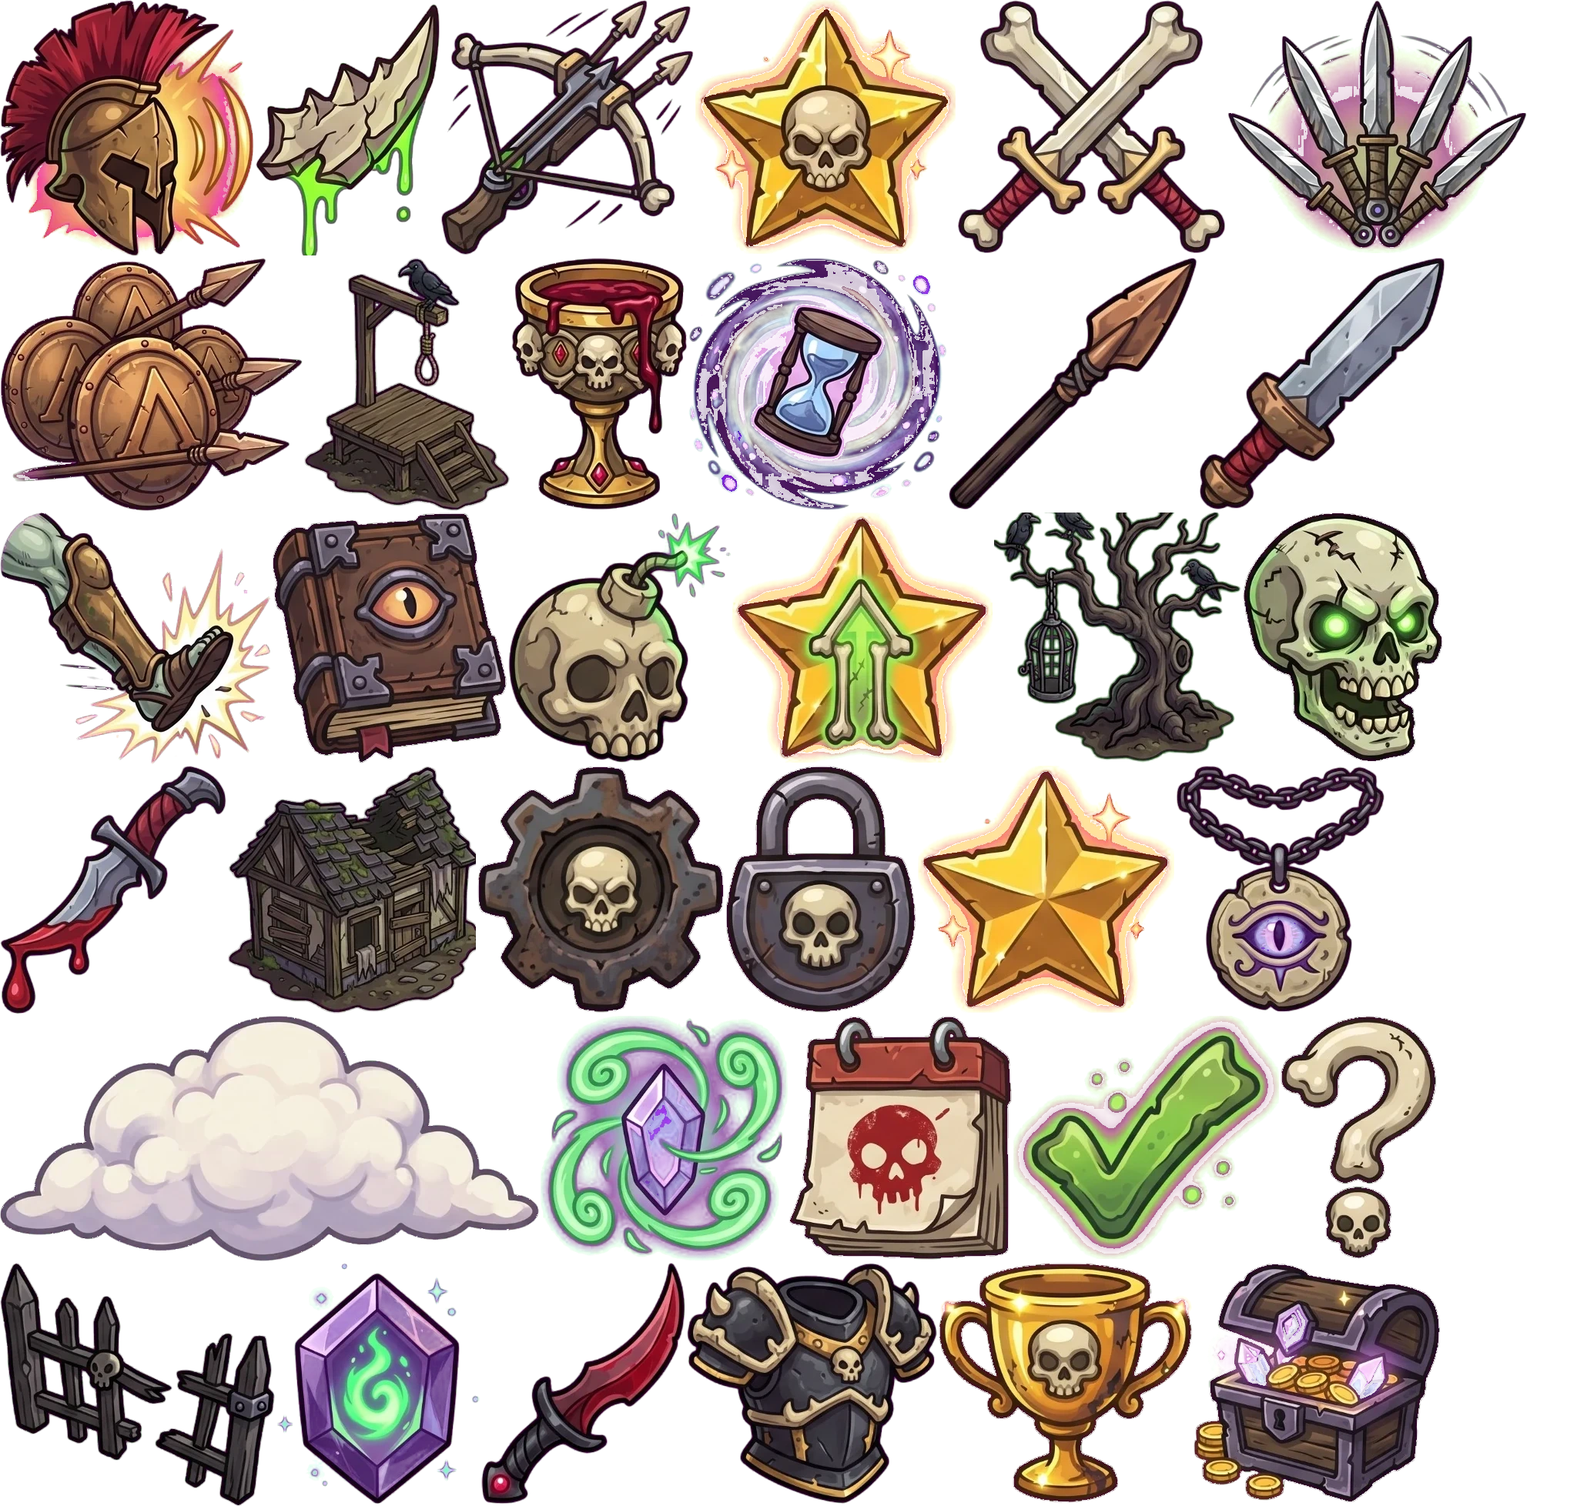
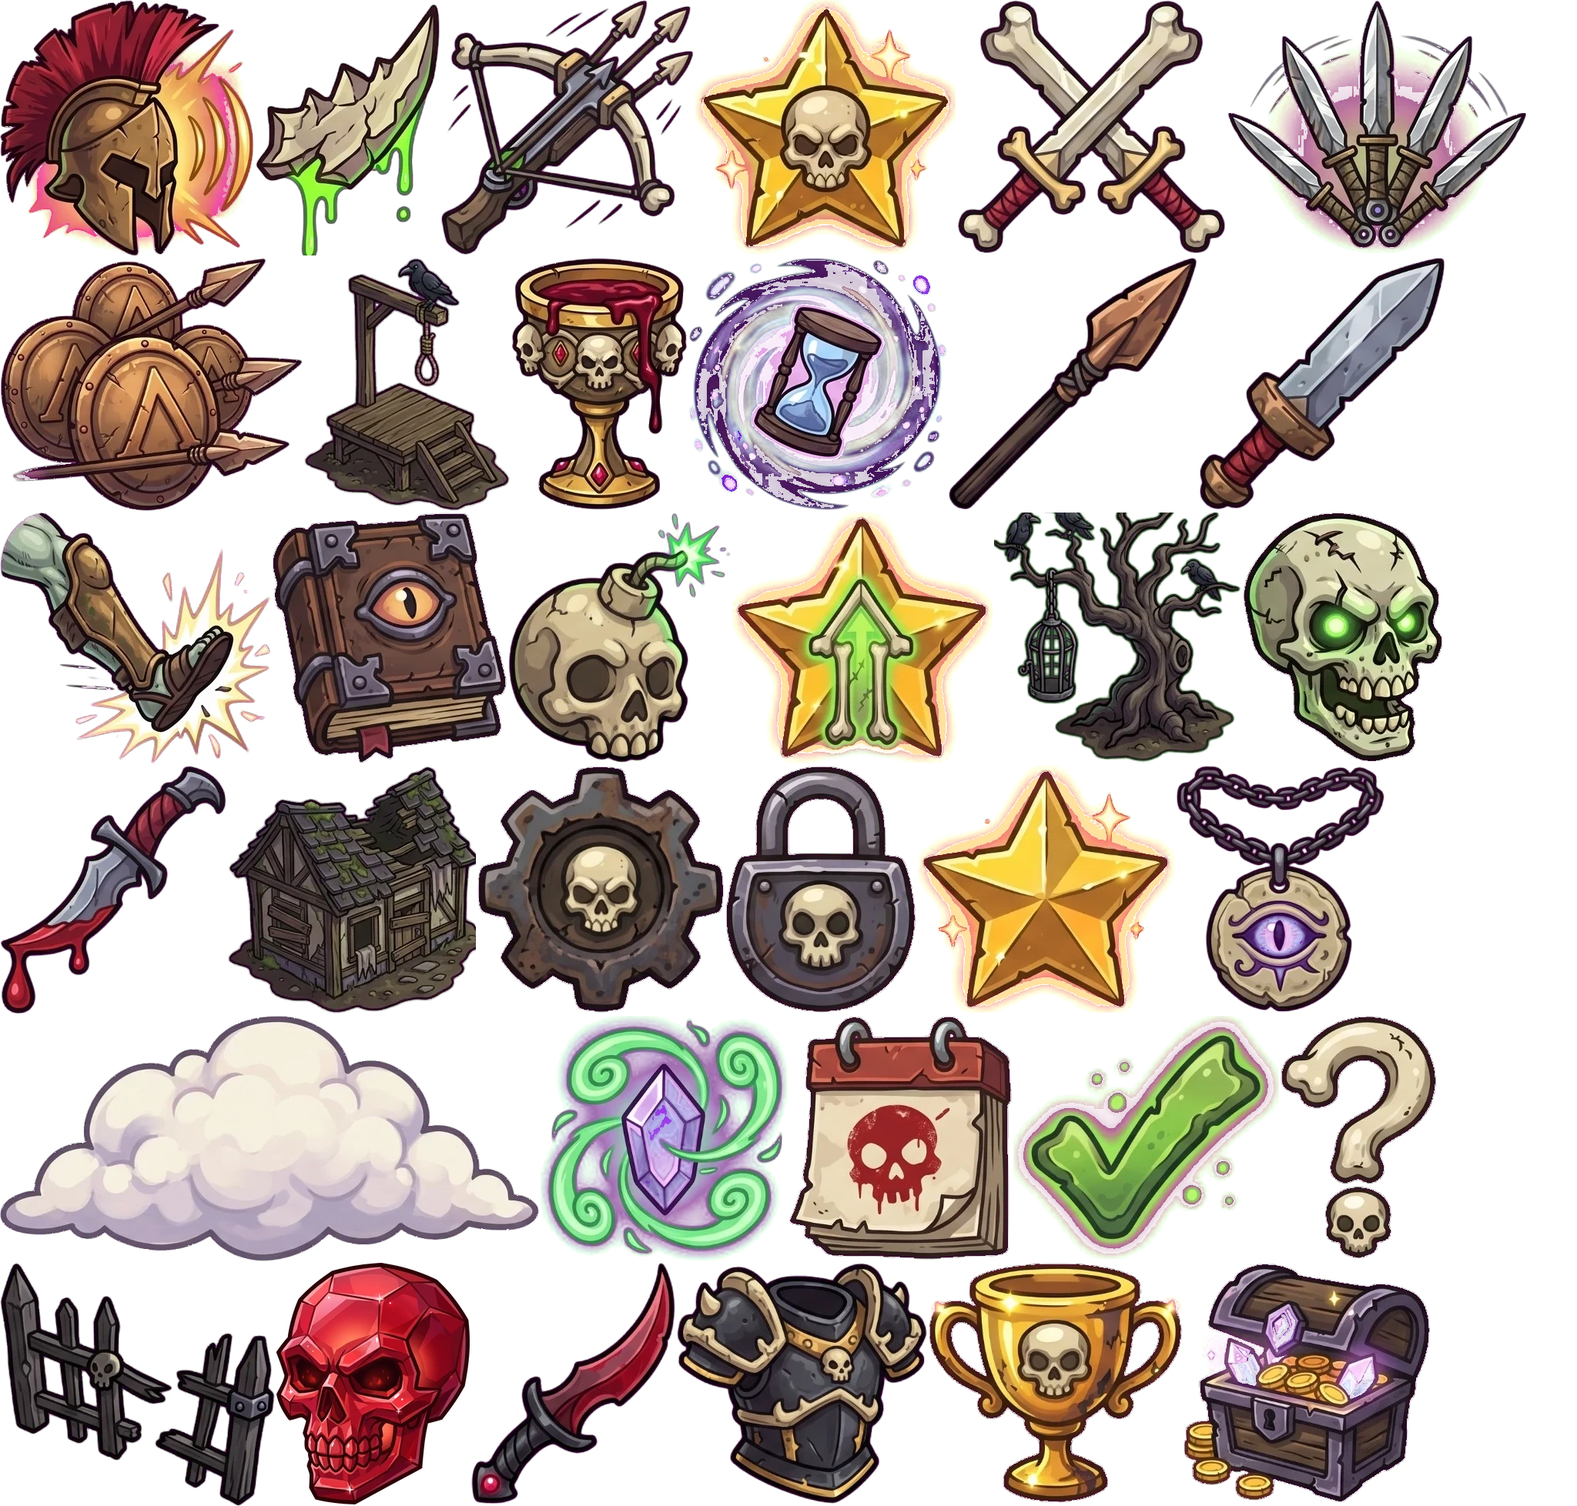
Kristal: kırmızı kafatası taş (Gemini), kristal yazıları kırmızı tonda; necromancer araştırması (yayın 775)

Changed region(s): [[0.1562, 0.8416, 0.9375, 1.0]]

diff --git a/sinir-kalesi/js/game.js b/sinir-kalesi/js/game.js
@@ -4091,7 +4091,7 @@ const itemBag = () => ({ x: EDGE.r - 16 - SPELL_R, y: EDGE.b - 14 - SPELL_R, r: 
 const itemBtn = (i) => { const b = itemBag(); return { x: b.x - (i + 1) * (SPELL_R * 2 + 8), y: b.y, r: SPELL_R * 0.92 }; };
 const itemCount = (id) => (G && G.tutorial ? (G.tutItems && G.tutItems[id]) || 0 : (save.items && save.items[id]) || 0); // öğretici: kendi (kaydedilmeyen) eşyaları
 function pickItem(id) {
-  if (itemCount(id) <= 0) { floatText(itemBag().x - 120, itemBag().y - 50, 'Dükkândan kristalle al', '#e0b8ff'); sfx('error'); return; }
+  if (itemCount(id) <= 0) { floatText(itemBag().x - 120, itemBag().y - 50, 'Dükkândan kristalle al', '#ffb4a8'); sfx('error'); return; }
   if (ITEMS[id].target) { G.mode = { kind: 'item', id }; G.bagOpen = false; G.spellPeek = null; sfx('spell'); return; }
   useItem(id);
 }
@@ -7700,7 +7700,7 @@ function drawAchievements() {
       const im = spr('ico_ach_chest'); if (im) icoFit(im, rx, ry - 8, 16);
       txt('AL +' + achReward(a, (save.achC && save.achC[a.id]) || 0), rx, ry + 20, 14, '#fff', 'center', '400', FONT_T, false);
     } else if (done) { const im = spr('ico_ui_check'); if (im) icoFit(im, rx, ry, 17); else txt('✓', rx, ry, 26, '#8fd06a'); }
-    else { ctx.save(); ctx.globalAlpha *= 0.6; const im = spr('ico_crystal'); if (im) icoFit(im, rx - 12, ry, 12); txt('+' + achReward(a, tier), rx + 4, ry + 1, 16, '#e0b8ff', 'left', '400', FONT_T, false); ctx.restore(); }
+    else { ctx.save(); ctx.globalAlpha *= 0.6; const im = spr('ico_crystal'); if (im) icoFit(im, rx - 12, ry, 12); txt('+' + achReward(a, tier), rx + 4, ry + 1, 16, '#ffb4a8', 'left', '400', FONT_T, false); ctx.restore(); }
     ctx.restore();
   });
   ctx.restore();
@@ -16328,7 +16328,7 @@ function drawCosmeticShop(px, py, pw, ph) {
       if (on) txt('TAKILI', x + cw / 2, y + 120, 13, '#8af07a', 'center', '400', FONT_T);
       else if (own) txt('TAK', x + cw / 2, y + 120, 13, '#f0e2c4', 'center', '400', FONT_T);
       else if (S.event) fitTxt('Etkinlik ödülü', x + cw / 2, y + 120, cw - 8, 12, '#ffb070', 'center', '800', FONT_B, false, 9);
-      else { drawCrystal(x + cw / 2 - 14, y + 120, 7); txt('' + S.cost, x + cw / 2 + 6, y + 121, 14, c >= S.cost ? '#f0d8ff' : '#8a7a8a', 'center', '400', FONT_T); }
+      else { drawCrystal(x + cw / 2 - 14, y + 120, 7); txt('' + S.cost, x + cw / 2 + 6, y + 121, 14, c >= S.cost ? '#ffd4cc' : '#8a7a8a', 'center', '400', FONT_T); }
       ctx.restore();
       buttons.push({ key, x, y, w: cw, h: ch, fn: () => {
         if (on) return;
@@ -16343,7 +16343,7 @@ function drawCosmeticShop(px, py, pw, ph) {
 function drawCrystalShop(px, py, pw, ph) {
   const c = save.crystal || 0;
   drawCrystal(W / 2 - 92, py + 52, 17);
-  txt(`Kristalin: ${c}`, W / 2 + 12, py + 53, 24, '#f0d8ff', 'center', '400', FONT_T, false);
+  txt(`Kristalin: ${c}`, W / 2 + 12, py + 53, 24, '#ffd4cc', 'center', '400', FONT_T, false);
   txt('Kristal yalnız bosslardan düşer · komutan ve savaş eşyası açar', W / 2, py + 82, 14, '#c8b8d8', 'center', '700', FONT_B, false);
   ITEM_ORDER.forEach((id, k) => {
     const I = ITEMS[id], ry = py + 100 + k * 68, rx = px + 24, rw = pw - 48;
@@ -17968,7 +17968,7 @@ function drawEvent() {
     // ödül şeridi
     roundRect(x + 18, ty + th + 72, cw - 36, 50, 12, 'rgba(10,4,12,0.75)', 'rgba(255,150,60,0.45)', 1.5);
     txt('ÖDÜL', x + 32, ty + th + 97, 13, '#ffb070', 'left', '400', FONT_T, false);
-    let rx = x + 88; if (S.reward.c) { drawCrystal(rx, ty + th + 97, 10); txt('+' + S.reward.c, rx + 14, ty + th + 98, 16, '#f0d8ff', 'left', '400', FONT_T, false); rx += 62; }
+    let rx = x + 88; if (S.reward.c) { drawCrystal(rx, ty + th + 97, 10); txt('+' + S.reward.c, rx + 14, ty + th + 98, 16, '#ffd4cc', 'left', '400', FONT_T, false); rx += 62; }
     if (S.reward.cos) { const C = TOWER_SKINS.concat(HERO_SKINS).find(o => o.id === S.reward.cos); fitTxt(C ? C.name : '', rx, ty + th + 98, x + cw - 30 - rx, 14, '#ffb070', 'left', '800', FONT_B, false, 10); }
     if (done) { roundRect(x + 40, y0 + ch - 62, cw - 80, 44, 22, 'rgba(40,90,30,0.85)', '#9be06a', 2); txt('TAMAM ✓', x + cw / 2, y0 + ch - 40, 18, '#eaffd8', 'center', '400', FONT_T); }
     else gameButton('ev_' + j, x + cw / 2, y0 + ch - 40, cw - 60, 50, open ? 'OYNA' : 'KİLİTLİ', () => { if (!open) { mapNote = { text: 'Önce önceki bölümü bitir', t: time }; sfx('error'); return; } go(() => startEvent(E, j)); }, open ? 'ember' : 'dark', { icon: open ? 'play' : 'lock', size: 18, shine: open });
@@ -20024,7 +20024,7 @@ function drawMap() {
     }, () => { const D = dailyPick(); mapNote = { text: `Günün sınavı: ${LEVELS[D.idx].name} · ${D.mod.name} (${D.mod.desc})`, t: time }; go(() => startLevel(D.idx, 'd')); }, { appear: st - 0.3, tile: 'ember' });
   }
   roundBtn('shop', bx(4), TY, RB, (r) => { uiIco('shop', 0, 0, r * 1.2) || drawIcon('coin', 0, 0, r * 1.15); if (isPremium()) drawCrown(0, -r * 0.9, 0.55, 1); }, () => go(() => { menuBack = 'map'; screen = 'shop'; screenT = time; }), { appear: st - 0.35, tile: 'gold' });
-  { const cc = save.crystal || 0; if (cc) { const qx = bx(4) + 2, qy = TY + 24; roundRect(qx - 26, qy - 11, 52, 22, 11, 'rgba(40,16,50,0.95)', '#e0b8ff', 1.5); drawCrystal(qx - 13, qy, 8); txt(cc + '', qx + 9, qy + 0.5, 13, '#fff', 'center', '400', FONT_T); } }
+  { const cc = save.crystal || 0; if (cc) { const qx = bx(4) + 2, qy = TY + 24; roundRect(qx - 26, qy - 11, 52, 22, 11, 'rgba(52,12,16,0.95)', '#ff8a7a', 1.5); drawCrystal(qx - 13, qy, 8); txt(cc + '', qx + 9, qy + 0.5, 13, '#fff', 'center', '400', FONT_T); } }
   if (save.achNew) { circle(bx(2) + 18, TY - 18, 9, '#e04a3a', '#2a0606', 1.4); txt(save.achNew + '', bx(2) + 18, TY - 17.5, 11, '#fff', 'center', '400', FONT_T, false); }
   if ((save.codexNew || []).length) { const cx = bx(1) + 18, cy = TY - 18 + Math.sin(time * 5) * 1.5; circle(cx, cy, 9, '#e8434b', '#fff', 1.4); txt(save.codexNew.length + '', cx, cy + 0.5, 10.5, '#fff', 'center', '400', FONT_T); }
   // sefer adı: sekmelerle sağ düğmeler arasındaki boşlukta (dar ekranda küçülür, sığmazsa ikinci satıra iner)
@@ -21363,7 +21363,7 @@ function drawVault(k, cx, y) {
   const gx = x0 + 214; drawIcon('coin', gx, y, 20); txt(String(g), gx + 16, y + 1, 19, '#ffe27a', 'left', '400', FONT_T, false);
   if (V.c > 0 || V.gold >= VAULT.per) {
     const ax = x0 + 318; ctx.fillStyle = '#9fe870'; ctx.beginPath(); ctx.moveTo(ax, y - 6); ctx.lineTo(ax + 11, y); ctx.lineTo(ax, y + 6); ctx.closePath(); ctx.fill();
-    drawIconArt('crystal', paintCrystal, x0 + 352, y, 12); txt('+' + n, x0 + 370, y + 1, 20, '#e0b8ff', 'left', '400', FONT_T, false);
+    drawIconArt('crystal', paintCrystal, x0 + 352, y, 12); txt('+' + n, x0 + 370, y + 1, 20, '#ffb4a8', 'left', '400', FONT_T, false);
     if (V.replay) { roundRect(x0 + w - 74, y - 11, 60, 22, 11, 'rgba(232,187,74,0.18)', 'rgba(232,187,74,0.6)', 1); txt('TEKRAR', x0 + w - 44, y + 1, 12, '#ffd98a', 'center', '800', FONT_B, false); }
     if (u > 0 && u < 1 && V.c > 0 && Math.random() < 0.5) { // sikkeler kasadan kristale akar
       emit(uiParts, { kind: 'glow', add: true, x: gx + rand(-4, 4), y: y + rand(-4, 4), vx: (x0 + 352 - gx) * rand(1.6, 2.2), vy: -rand(20, 60), drag: 2.2, col: Math.random() < 0.6 ? '255,220,110' : '210,150,255', s0: rand(3, 5), s1: 1, life: 0.45 });
@@ -21599,7 +21599,7 @@ function drawWinMinimal(k) {
       ctx.font = `400 24px ${FONT_T}`; const cw = cr > 0 ? 34 + ctx.measureText('+' + cr).width : 0, gw = gear.length * 50, tw = cw + gw + (cw && gw ? 20 : 0);
       let x = -tw / 2;
       if (cr > 0) { ctx.save(); ctx.globalCompositeOperation = 'lighter'; glow(ctx, x + 13, 0, 26, '200,140,255', 0.35 + 0.1 * Math.sin(time * 4)); ctx.restore();
-        drawIconArt('crystal', paintCrystal, x + 13, 0, 14); txt('+' + cr, x + 32, 1, 24, '#e6c4ff', 'left', '400', FONT_T, true); x += cw + 20; }
+        drawIconArt('crystal', paintCrystal, x + 13, 0, 14); txt('+' + cr, x + 32, 1, 24, '#ffc0b4', 'left', '400', FONT_T, true); x += cw + 20; }
       gear.forEach((it, i) => gearCell(it, x + 22 + i * 50, 0, 42));
     }
     ctx.restore();
@@ -22057,7 +22057,7 @@ function drawOverlay() {
       if (!G.winLoot) { G.winLoot = true; sfx('lootchime'); } // ganimet çınlaması
       ctx.save(); ctx.translate(cx, py + (G.vault ? 374 : 330)); ctx.scale(a, a);
       txt('Ganimet:', -wTot / 2, 0, 15, '#cfc4dc', 'left', '800', FONT_B, false);
-      drawIconArt('crystal', paintCrystal, -wTot / 2 + 88, 0, 11); txt('+' + L.c, -wTot / 2 + 104, 1, 18, '#e0b8ff', 'left', '400', FONT_T, false);
+      drawIconArt('crystal', paintCrystal, -wTot / 2 + 88, 0, 11); txt('+' + L.c, -wTot / 2 + 104, 1, 18, '#ffb4a8', 'left', '400', FONT_T, false);
       L.gear.forEach((it, i) => gearCell(it, -wTot / 2 + 172 + i * 44, 0, 38));
       ctx.restore();
     } else if (NECRO && !(sum && G.vault)) fitTxt(WIN_QUIPS[G.idx % WIN_QUIPS.length], cx, py + (sum ? 330 : 228), pw - 60, 15, '#9fd8a0', 'center', '700', FONT_B, false, 12);

diff --git a/sinir-kalesi/tools/denge-botu2.js b/sinir-kalesi/tools/denge-botu2.js
@@ -5,7 +5,8 @@
 // Strateji: kule yerleri yolu en çok gördükleri sıraya göre; karışık kule; en ucuz geliştirme; okçu yolu sırayla bow/xbow;
 // büyüler: duvar kaleye yaklaşan durdurulamayanların (noblock/hızlı) önüne, korku kalabalığa, diriltme/patlatma/golem ceset kümesine.
 const { chromium } = require('playwright');
-const arg = process.argv[2] || '0-39', team = (process.argv[3] || 'leonidas').split(','), STARS = +(process.argv[4] || 3);
+// 18 Eki: DIFF=kolay|normal|usta, NOSPELL=1 (Mortimer'ın büyüleri kullanılmaz), komutansız için 2. değişken 'yok'
+const arg = process.argv[2] || '0-39', team = (process.argv[3] || 'leonidas').split(',').filter(t => t !== 'yok'), STARS = +(process.argv[4] || 3), DIFF = process.env.DIFF || 'normal', NOSPELL = !!process.env.NOSPELL;
 const lvls = arg.includes('-') ? (([a, b]) => Array.from({ length: b - a + 1 }, (_, i) => a + i))(arg.split('-').map(Number)) : arg.split(',').map(Number);
 (async () => {
   const b = await chromium.launch();
@@ -14,10 +15,10 @@ const lvls = arg.includes('-') ? (([a, b]) => Array.from({ length: b - a + 1 }, 
   await p.goto('http://localhost:8765/index.html?' + Date.now());
   await p.waitForTimeout(1500);
   for (const lvl of lvls) {
-    const r = await p.evaluate(({ lvl, team, STARS }) => {
+    const r = await p.evaluate(({ lvl, team, STARS, DIFF, NOSPELL }) => {
       const g = window.__game, S = g.save();
       // --- oyuncu ilerlemesi ---
-      S.stars = Array.from({ length: lvl }, () => STARS); S.team = team; S.upg = {}; S.grim = {}; S.sxp = {}; S.tutDone = 1; S.tut3 = { 0: 1, 1: 1, 2: 1 }; S.comics = S.comics || {};
+      S.stars = Array.from({ length: lvl }, () => STARS); S.team = team; S.diff = DIFF; S.upg = {}; S.grim = {}; S.sxp = {}; S.tutDone = 1; S.tut3 = { 0: 1, 1: 1, 2: 1 }; S.comics = S.comics || {};
       let free = S.stars.reduce((a, b) => a + b, 0), bought = true;
       while (bought) { bought = false; for (const u of UPGRADES) { const r = S.upg[u.id] || 0; if (r < u.ranks.length && u.ranks[r].cost <= free) { free -= u.ranks[r].cost; S.upg[u.id] = r + 1; bought = true; } } }
       for (const id of ['nm_raise', 'nm_fear', 'nm_wall', 'nm_burst', 'nm_golem']) { S.sxp[id] = 85 * lvl; for (let k = 0; k < 5; k++) g.grimBuy(id); }
@@ -33,7 +34,7 @@ const lvls = arg.includes('-') ? (([a, b]) => Array.from({ length: b - a + 1 }, 
       const flyN = G.lv.waves.reduce((a, w) => a + (w.groups || w).reduce ? (w.groups || w).reduce((s, gr) => s + (((ENEMIES[gr.t || gr.type || gr[0]] || {}).flying) ? 1 : 0), 0) : 0, 0);
       const plan = ['barracks', 'archer', 'mage', 'artillery', 'archer', 'mage', 'barracks', 'artillery', 'archer', 'mage', 'archer', 'barracks', 'mage', 'artillery'].filter(t => g.towerOn(t)); // öğretici bölümde yalnız açık kuleler
       const leaks = {}, alive = new Map(); let time = 0, casts = 0, xbow = 0;
-      const cast = (id, x, y) => { g.cast(id, x, y); if (G.spells[id] > 0) { casts++; used[id] = (used[id] || 0) + 1; } }, used = {};
+      const cast = (id, x, y) => { if (NOSPELL && id.startsWith('nm_')) return; g.cast(id, x, y); if (G.spells[id] > 0) { casts++; used[id] = (used[id] || 0) + 1; } }, used = {};
       g.wave();
       const dens = (list, r) => { let best = null, bn = 0; for (const e of list) { const n = list.filter(o => Math.hypot(o.x - e.x, o.y - e.y) < r).length; if (n > bn) { bn = n; best = e; } } return [best, bn]; };
       while (!g.overlay && time < 1500) {
@@ -72,7 +73,7 @@ const lvls = arg.includes('-') ? (([a, b]) => Array.from({ length: b - a + 1 }, 
       }
       const stuck = g.overlay ? null : G.enemies.filter(e => !e.dead).sort((a, b) => b.d - a.d).slice(0, 6).map(e => ({ t: e.type, d: e.p ? Math.round(e.d) + '/' + Math.round(e.p.total) : '-', x: Math.round(e.x), y: Math.round(e.y), under: !!e.under, blk: !!e.blocker, st: e.siege, hp: Math.round(e.hp), fear: +(e.fearT || 0).toFixed(1), stun: +(e.stun || 0).toFixed(1), spd: +(e.curSpd || 0).toFixed(1), slow: +(e.slowT || 0).toFixed(1), n: G.enemies.filter(o => !o.dead).length }));
       return { lvl, name: G.lv.name, result: g.overlay, stuck, spawners: G.spawners.length, cd: G.waveCountdown, lives: G.lives, wave: G.wave + '/' + G.lv.waves.length, t: Math.round(time), gold: G.gold, towers: G.towers.map(t => t.type[0] + t.lvl).join(''), casts, used, leaks };
-    }, { lvl, team, STARS });
+    }, { lvl, team, STARS, DIFF, NOSPELL });
     console.log(JSON.stringify(r));
   }
   if (errs.length) console.log('HATALAR', JSON.stringify([...new Set(errs)].slice(0, 20)));

diff --git a/sinir-kalesi/index.html b/sinir-kalesi/index.html
@@ -17,7 +17,7 @@
 <canvas id="game" aria-label="Sınır Kalesi oyun alanı"></canvas>
 <script>
   // Sürüm damgası: her yayında artırılır; tarayıcı eski önbellek kopyasını kullanmaz (js ve görseller).
-  window.SURUM = '774';
+  window.SURUM = '775';
   // dil: kayıtlı seçim (yoksa Türkçe); tr/en dışındakiler için çeviri sözlüğü dil.js'ten önce yüklenir
   window.__dilYukle = (function () {
     var l = null; try { l = localStorage.getItem('sinirKalesi.lang'); } catch (e) {}

diff --git a/sinir-kalesi/yayin.html b/sinir-kalesi/yayin.html
@@ -11,7 +11,7 @@
 <canvas id="game" aria-label="Sınır Kalesi oyun alanı"></canvas>
 <script>
   // Sürüm damgası: her yayında artırılır; tarayıcı eski önbellek kopyasını kullanmaz (js ve görseller).
-  window.SURUM = '774';
+  window.SURUM = '775';
   // dil: kayıtlı seçim (yoksa Türkçe); tr/en dışındakiler için çeviri sözlüğü dil.js'ten önce yüklenir
   window.__dilYukle = (function () {
     var l = null; try { l = localStorage.getItem('sinirKalesi.lang'); } catch (e) {}

diff --git a/varliklar/kristal_isle.py b/varliklar/kristal_isle.py
@@ -1,0 +1,16 @@
+"""Kristal kafatası (18 Eki, Caner: "koyu kırmızı kafatası, zümrüt gibi ama kıpkırmızı"): Gemini, beyaz zemin.
+ham/nm41_kristal_kafatasi.jpg -> img/ico_crystal.webp (atlasa girer; eskisi cikti/ico_crystal_eski.webp).
+    .venv/bin/python3 varliklar/kristal_isle.py && .venv/bin/python3 varliklar/atlas_kur.py"""
+import os, sys, json
+import numpy as np
+from PIL import Image
+D = os.path.dirname(os.path.abspath(__file__)); IMG = os.path.join(D, '..', 'sinir-kalesi', 'img'); sys.path.insert(0, D)
+src = open(os.path.join(D, 'kale_v5_isle.py')).read(); ns = {'__file__': os.path.join(D, 'kale_v5_isle.py')}
+exec(src[src.index('import os'):src.index('new = beyaz_sil(')], ns)
+import serit_temizle
+a = ns['beyaz_sil'](np.asarray(Image.open(os.path.join(D, 'ham', 'nm41_kristal_kafatasi.jpg')).convert('RGB')))
+ys, xs = np.nonzero(a[..., 3] > 20); a = a[ys.min():ys.max() + 1, xs.min():xs.max() + 1]
+im = Image.fromarray(a); s = 314 / im.height; im = im.resize((round(im.width * s), 314), Image.LANCZOS)
+im = Image.fromarray(serit_temizle.kare(np.asarray(im), 'ico_crystal'))
+im.save(os.path.join(IMG, 'ico_crystal.webp'), 'WEBP', quality=92, method=6); print(im.size)
+m = json.load(open(os.path.join(IMG, 'meta.json'))); m['ico_crystal'] = [im.width, im.height]; json.dump(m, open(os.path.join(IMG, 'meta.json'), 'w'))

diff --git a/arastirma/necromancer-arastirma.md b/arastirma/necromancer-arastirma.md
@@ -1,0 +1,26 @@
+# Necromancer nedir, ne sevilir, oyuna ne eklenebilir (18 Eki 2026)
+
+Caner: "Necromancer ne tür büyüler yapar, ekstra ne kale, skill ekleyebiliriz; forumlarda en sevilen büyüleri bul; zorlama olmasın, gerçekten iyi etki edenleri seç."
+Kaynaklar: Diablo 2-4 nekromansı (Raise Skeleton, Corpse Explosion, Bone Spear, Bone Prison, Iron Maiden / Decrepify / Amplify Damage lanetleri,
+golemler, Army of the Dead), D&D necromancy okulu (Animate Dead, Vampiric Touch, Blight, Finger of Death, Danse Macabre), Path of Exile
+(Raise Spectre: düşmanın seçkinini yetenekleriyle diriltmek, Desecrate), Grim Dawn, Necrosmith 1-2 (nekromanser kule savunması), Reddit
+tartışmaları (r/D4Necromancer "necromancer fantasy", r/onednd "power fantasy", r/BG3Builds): başlık ve özetler.
+
+## Oyuncuların en çok sevdikleri (tekrar eden temalar)
+1. **Ordu fantezisi**: "ben savaşmam, ölülerim savaşır". Kalabalık iskelet ordusu, ölen düşmanın kalkıp bize katılması. (Bizde var: diriltme, mahzen, zombi emri.)
+2. **Ceset ekonomisi**: cesetler kaynak; patlatmak (Corpse Explosion en sevilen beceri), golem yapmak. (Bizde var: patlatma, golem, ceset tüccarı sürprizi.)
+3. **Lanetler**: düşmanı zayıflatmak; en çok anılan Iron Maiden (düşman vurduğu kadar kendine zarar verir) ve Amplify Damage. (Bizde: Lanet Kulesi, korku.)
+4. **Kemik büyüleri**: kemik mızrak, kemik hapishane, kemik zırh. (Bizde: kemik duvar, okçular.)
+5. **Büyük an**: Army of the Dead / Land of the Dead gibi seyrek ama ekranı dolduran bir son büyü; "boss'u öldürünce dirilt" (Revive, Spectre).
+6. **Lich ve ruh kabı (filakteri)**: ölümsüzlüğün kaynağı; kırılmadıkça nekromanser ölmez.
+Şikâyetler: miniyonlar "sadece süs" kalınca hayal kırıklığı; çok fazla benzer büyü; ordu kontrol edilemeyince sıkıcılık.
+
+## Öneriler (seçilmiş, zorlama değil)
+1. **Demir Bakire laneti (yeni büyü)** — alana atılır, 6 sn: lanetli düşman vurduğu hasarın %60'ını kendine yer. Bizde ağır piyade, gladyatör ve bosslar
+   iskeletleri ezip sızıyor (denge botu sızıntıları); bu büyü tam o soruna cevap ve iskelet ordusunu değerli kılar. En sevilen nekro lanetlerinden.
+2. **Ölüler Ordusu (seyrek büyük büyü)** — 2. sefere geçince açılır, uzun bekleme: yol boyunca topraktan iskelet elleri fışkırır, düşmanları tutar ve ezer,
+   ardından birkaç iskelet ayağa kalkar. "Büyük an" ihtiyacını karşılar; komutan güçlerinden ayrı, Mortimer'ın imza gücü.
+3. **Ruh Kabı (kale gelişmesi)** — Gelişmeler'de kale satırının son kademesi: can 0'a inince bölümde bir kez kap kırılır, Mortimer 5 canla döner
+   (kale ve balkonda kırılma gösterisi). Lich efsanesinin özü, kalenin hikâyesini anlatır, oyuncuyu ani sızıntıdan bir kez kurtarır.
+Eklenmemesi önerilenler: kemik mızrak (okçular zaten yapıyor), yeni golem çeşitleri (golem var), kemik zırh (kalkan duvarı var), kan büyüsü
+(Báthory taşıyor). Fazla büyü alt çubuğu kalabalıklaştırır; 3 büyülük seçim (loadout) korunur, yeni büyüler seçenek olarak eklenir.
